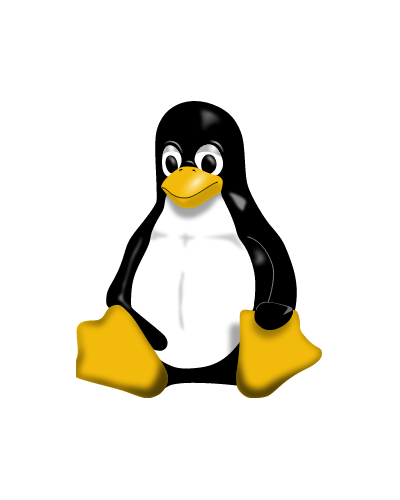
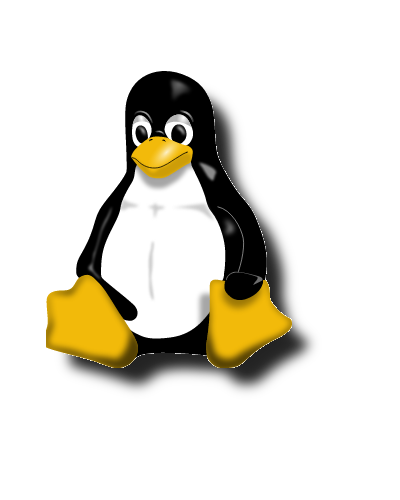
Schatten funktioniert

Changed region(s): [[0.09, 0.12, 0.81, 0.81]]

diff --git a/3 Schatten.py b/3 Schatten.py
@@ -3,8 +3,8 @@
 from PIL import Image, ImageFilter
 
 # Parameter
-shift_left = 10
-shift_up = 10 
+shift_right = -20
+shift_down = -20
 blur_iterations = 20
 
 # RGBA
@@ -17,23 +17,23 @@ grey = (30,30,30,255)
 tux = Image.open("tux.png")
 
 # Schatten erzeugen
-shadow = tux.copy() 
+tux_mask = tux.copy() 
 
-# in S/W verwandeln
-pixels = shadow.load()
-for y in range(shadow.size[1]):
-    for x in range(shadow.size[0]):
-        if pixels[x,y][3] > 0:
-            pixels[x,y] = grey
+# S/W-Maske erzeugen
+pixel = tux_mask.load()
+for y in range(tux_mask.size[1]):
+    for x in range(tux_mask.size[0]):
+        if pixel[x,y][3] > 0:
+            pixel[x,y] = grey
         else:
-            pixels[x,y] = transparent
+            pixel[x,y] = transparent
 
-# Weichzeichnen
+# Schatten weichzeichnen
+shadow = tux_mask.copy()
 for iteration in range(blur_iterations):
     shadow = shadow.filter(ImageFilter.BLUR)
 
 # Zusammenfuegen
-shadow.paste(tux, (), )
+shadow.paste(tux, (shift_right,shift_down), tux_mask)
 
 shadow.save("tux+shadow.png")
-shadow.show()
